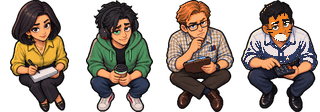
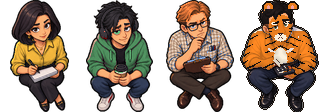
feat: Тигран перерисован в гриме тигра без одежды, короткие заметки о коллегах в README (0.15.1)
Claude-Session: https://claude.ai/code/session_015hKRSkNJUJgMoNjBspQD3D

diff --git a/README.md b/README.md
@@ -33,8 +33,7 @@
 - **Конус обзора.** Жёлтый конус перед Д.Н. — его взгляд. Прокрастинируешь в нём — растёт «?», на 100% — выговор.
 - **Проверки стола.** «Кхм-кхм…» — Д.Н. идёт к твоему столу. Стол пустой — он ждёт: «ГДЕ БЫКЕНТИЙ? 3…2…1». Не успел — «не застал на месте» +1; на лимите (Стажёр 6, Сотрудник 5, Ветеран 3) — выговор.
 - **Неделя ПН–ПТ.** Механики открываются постепенно: со вторника коллеги, со среды обед в «Мюнхене» и биотуалет с очередью, с четверга второй ряд, летучка и Маджикистан, в пятницу Д.Н. уезжает в 17:00, а в «Мюнхене» пиво.
-- **Коллеги.** Встань перед столом и нажми `E`: Аймашын прикроет от выговора, Хлад сольёт время проверки, Шурик поправит отчёт, Блеб угостит куртом, Сиргей научит «сидеть на созвоне», Асель расскажет сплетни, стажёр Ержан сделает сводку.
-- **Тигран — дух офиса.** Уволился, но место за ним: человек в аквагриме тигра, армянин с Байконура, флаги Армении и Казахстана на столе. Д.Н. его не видит. Поболтай — «Поехали!» обнуляет подозрение.
+- **Коллеги.** Подойди к столу и нажми `E` — у каждого свой бонус.
 - **События:** угощение, сбор на ДР, жара, перфоратор, учения, летучка, падение интернета, ксерокс, камеры СБ, смог и пробки на Аль-Фараби.
 - **Сложность** (Стажёр / Сотрудник / Ветеран), **достижения** 🏆, **апгрейды** за KPI-коины, **автопилот** 🍿 и ползунок скорости времени.
 - **Как играть.** При первом запуске — 3 коротких слайда, полная справка — по `I`.

diff --git a/docs/GAMEPLAY.md b/docs/GAMEPLAY.md
@@ -10,7 +10,7 @@
 
 Во втором ряду сидят соседи, которые ноют и проёбываются: **Сиргей** (автокредиты — «автошка», которая вечно падает; спит «на созвоне»), **Асель** (комплаенс, сторис и чипсы), **стажёр Ержан** (танчики, спит на клавиатуре). Там же ПК-кирпич и сломанный монитор.
 
-**Тигран** — дух офиса: человек в аквагриме тигра, армянин с Байконура. Уволился в другую компанию, но место за ним. На столе флаги Армении и Казахстана, модель «Союза» и стикер «БАЙКОНУР». Сидит всегда (удалёнка, обед и учения на него не действуют), не проёбывается, Д.Н. его не видит и лишь ворчит про «сквозняк». Раз в смену запускает игрушечную ракету (+3 кайфа, если ты рядом).
+**Тигран** — дух офиса: человек в гриме тигра. Уволился в другую компанию, но место за ним. На столе флаги Армении и Казахстана, модель ракеты. Сидит всегда (удалёнка, обед и учения на него не действуют), не проёбывается, Д.Н. его не видит и лишь ворчит про «сквозняк». Раз в смену запускает игрушечную ракету (+3 кайфа, если ты рядом).
 
 ## Правила (с 0.14.0)
 

diff --git a/docs/ART_DIRECTION.md b/docs/ART_DIRECTION.md
@@ -24,7 +24,7 @@
 | `assets/bykentiy-walk-v2.png` | 256×120 | Предыдущая версия (исходник для v3) |
 | `assets/boss-walk-v2.png` | 424×134 | 4 кадра Директора Начальниковича **без усов** |
 | `assets/coworkers-v3.png` | 320×112 | 4 сидящих коллеги: Аймашын (казах, белая футболка, фейд, пучок с косичками, щетина, серьга), Хлад, Шурик, Блеб. Используется в игре |
-| `assets/extras-v1.png` | 320×112 | Второй ряд: Асель (горчичная блузка), стажёр Ержан (зелёное худи), Сиргей (рыжий), Тигран (аквагрим тигра, рисуется полупрозрачным «духом» с голубым свечением) |
+| `assets/extras-v1.png` | 320×112 | Второй ряд: Асель (горчичная блузка), стажёр Ержан (зелёное худи), Сиргей (рыжий), Тигран (без одежды, весь в гриме тигра: рыжий, полосы, белые грудь и морда, ушки; рисуется полупрозрачным «духом» с голубым свечением) |
 | `assets/coworkers-v2.png` | 320×112 | Исходник для v3 и второго ряда |
 | `assets/firdom-emblem.svg` | SVG | Игровая щит-эмблема (HUD и шапка) |
 | `assets/*-v1.png` | — | Исходники генерации (walk-листы 2048×512, атлас 1230×1278, фон 1672×941). Игра их не грузит, это мастер-файлы для пайплайна |

diff --git a/CHANGELOG.md b/CHANGELOG.md
@@ -1,5 +1,10 @@
 # История изменений
 
+## [0.15.1] — 2026-09-25
+
+- Тигран перерисован: без одежды, весь в гриме тигра — рыжий, клиновидные полосы, белые грудь и морда, ушки.
+- README: про коллег — одна короткая строка.
+
 ## [0.15.0] — 2026-09-25
 
 ### Изменено

diff --git a/VERSION.md b/VERSION.md
@@ -1,6 +1,6 @@
 # Версия проекта
 
-Текущая версия: `0.15.0`
+Текущая версия: `0.15.1`
 
 Дата: `2026-09-25`
 
